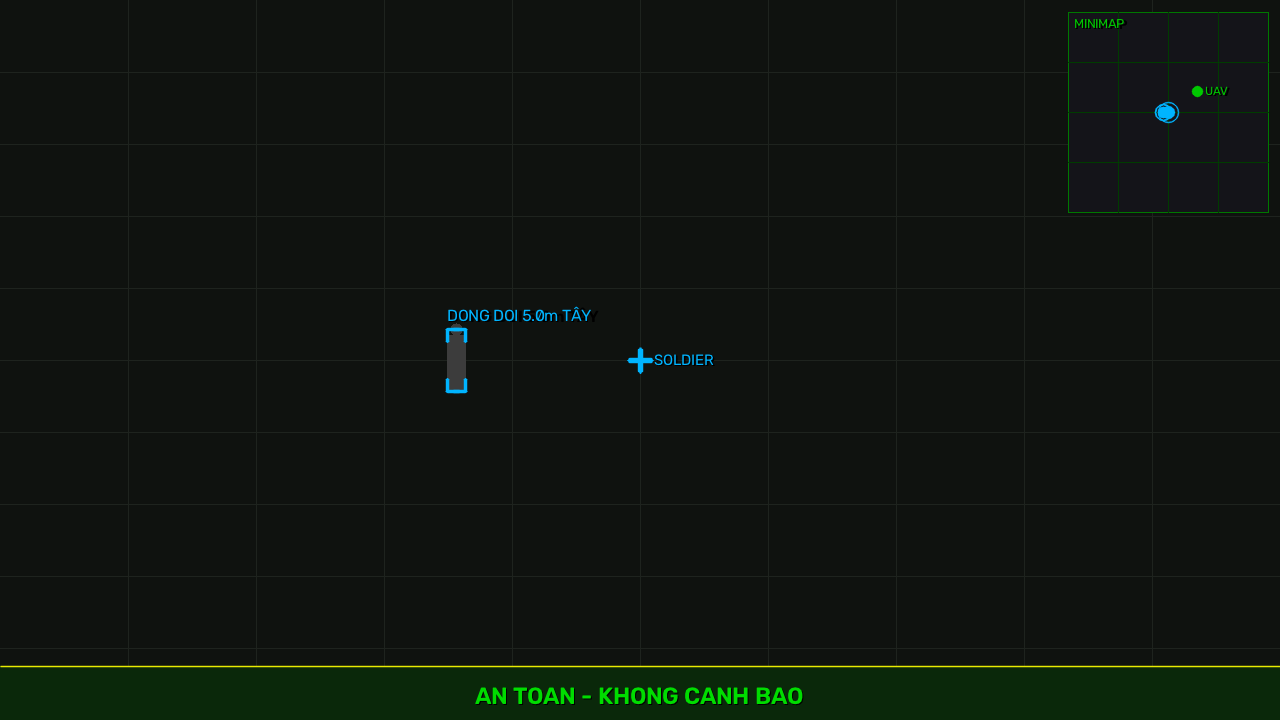
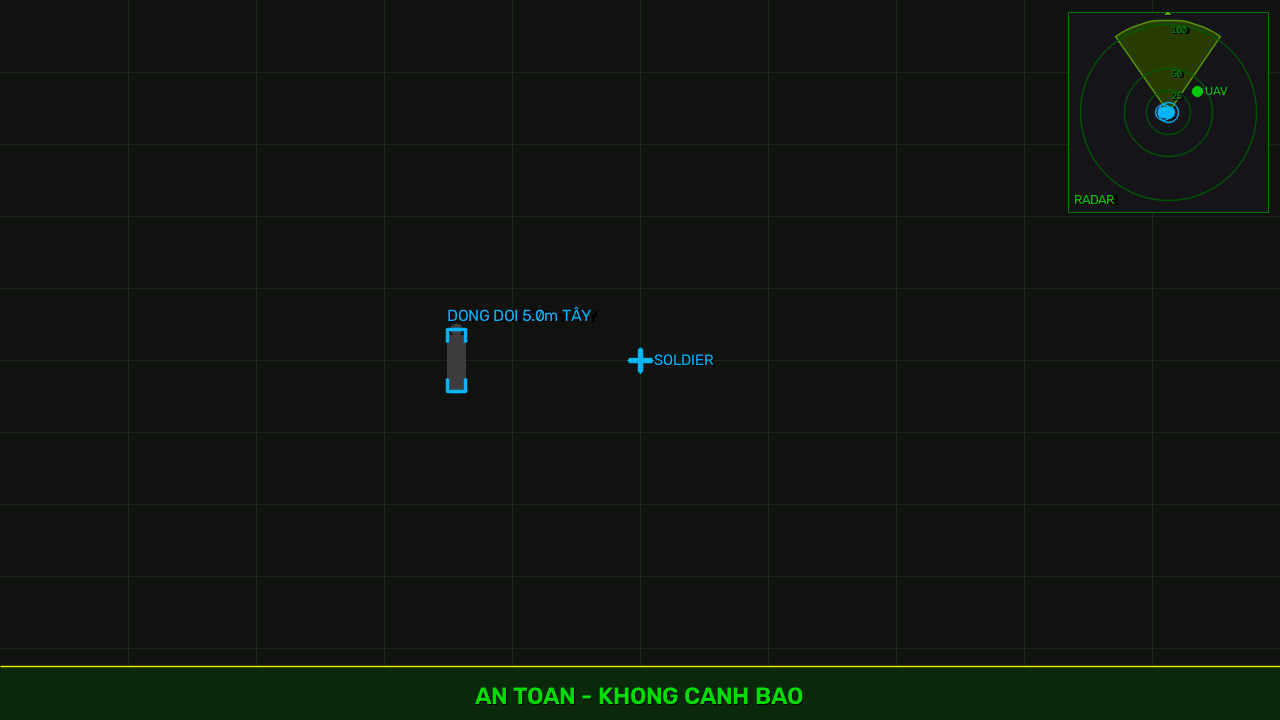
feat: Add TensorRT export script and enhance minimap radar functionality

diff --git a/tactical_hud_renderer.py b/tactical_hud_renderer.py
@@ -11,6 +11,8 @@ Thanh phan HUD:
   - Thanh cảnh báo SLM chớp nháy ở đáy màn hình
 """
 
+import math
+
 import cv2
 import numpy as np
 
@@ -21,11 +23,32 @@ GREEN = (0, 200, 0)      # UAV
 YELLOW = (0, 255, 255)   # chu canh bao
 DARK = (25, 20, 20)
 
-# Phuong vi (Phase 2) -> vector don vi toa do anh (x tang phai, y tang xuoi duoi)
-BEARING_VEC = {"Đông": (1, 0), "Bắc": (0, -1), "Tây": (-1, 0), "Nam": (0, 1)}
+# Phuong vi (chu) -> goc (do) de dat diem khi thieu angle_deg:
+# 0=Dong (phai), 90=Bac (len man hinh), 180=Tay (trai), 270=Nam (xuoi duoi)
+BEARING_ANGLE = {"Đông": 0, "Bắc": 90, "Tây": 180, "Nam": 270}
 
 MINIMAP_SIZE = 200
 WARN_RANGE_M = 100.0     # khoang cach toc do cua minimap: 100m = ra canh map
+CAM_FOV_DEG = 70.0       # goc FOV ngang mac dinh cua camera UAV (cho cone ve chiem)
+
+
+def _cone_points(cx, cy, radius_px, fov_deg, n=12):
+    """Dinh hinh quat FOV: tam + cac diem cung. Camera huong len (= 'Bac' = 90 do).
+    Quat chep xuong phia truoc, nua goc = fov_deg/2 so voi truc len man hinh."""
+    pts = [(cx, cy)]
+    a0 = math.radians(90.0 - fov_deg / 2.0)
+    a1 = math.radians(90.0 + fov_deg / 2.0)
+    for i in range(n + 1):
+        th = a0 + (a1 - a0) * i / n
+        pts.append((int(cx + radius_px * math.cos(th)),
+                    int(cy - radius_px * math.sin(th))))
+    return pts
+
+
+def _in_fov(angle_deg, fov_deg):
+    """Target co nam trong quat FOV (camera huong len = 90 do) khong."""
+    delta = (float(angle_deg) - 90.0 + 540.0) % 360.0 - 180.0  # lech [-180,180) so truc len
+    return abs(delta) <= fov_deg / 2.0
 
 
 def _text(frame, text, org, color, scale=0.55, thick=1, shadow=True):
@@ -53,36 +76,52 @@ def draw_soldier_marker(frame, cx, cy):
     _text(frame, "SOLDIER", (cx + 14, cy + 5), BLUE, 0.5, 1)
 
 
-def draw_minimap(frame, uav_frac, units, gps_units=()):
-    """Minimap goc phai tren. uav_frac: toa do (fx, fy) trong [0,1].
-    units: list (distance_m, bearing, side) tu box YOLO - 'enemy' dot do, 'friendly' dot xanh.
-    gps_units: list (dx_m, dy_m, side) - don doi co vi tri GPS thuc, ve theo toa do relative."""
+def draw_minimap(frame, uav_frac, units, gps_units=(), fov_deg=CAM_FOV_DEG):
+    """Minimap radar goc phai tren. Tam = lich, 100m = mep map.
+    uav_frac: toa do (fx, fy) trong [0,1] cua UAV.
+    units: list (distance_m, angle_deg, side) tu box YOLO — 'enemy' cham do,
+    'friendly' cham xanh; dat theo goc that 0-360 (0=Dong phai, 90=Bac len) + khoang cach.
+    gps_units: list (dx_m, dy_m, side) — dong doi GPS thuc, dat theo toa do relative.
+    fov_deg: goc FOV ngang camera UAV — ve quac vung phu + dam dau target ngoai tam."""
     s = MINIMAP_SIZE
     ox, oy = frame.shape[1] - s - 12, 12
-
-    cv2.rectangle(frame, (ox, oy), (ox + s, oy + s), DARK, -1)
-    cv2.rectangle(frame, (ox, oy), (ox + s, oy + s), (0, 120, 0), 1)
-    for i in range(1, 4):  # luoi 4x4
-        cv2.line(frame, (ox + i * s // 4, oy), (ox + i * s // 4, oy + s), (0, 60, 0), 1)
-        cv2.line(frame, (ox, oy + i * s // 4), (ox + s, oy + i * s // 4), (0, 60, 0), 1)
-    _text(frame, "MINIMAP", (ox + 6, oy + 16), (0, 200, 0), 0.45, 1)
-
     cx, cy = ox + s // 2, oy + s // 2
     px_per_m = (s / 2 - 12) / WARN_RANGE_M
 
-    # Dich (do) / dong doi (xanh): theo huong + khoang cach, giam trong khung map
-    for dist, bearing, side in units:
-        v = BEARING_VEC.get(bearing, (0, 0))
+    cv2.rectangle(frame, (ox, oy), (ox + s, oy + s), DARK, -1)
+    cv2.rectangle(frame, (ox, oy), (ox + s, oy + s), (0, 120, 0), 1)
+
+    # Quac FOV camera (huong len = phia truoc): vung camera dang nhìn (AC6)
+    cone = np.array(_cone_points(cx, cy, s / 2 - 8, fov_deg), dtype=np.int32)
+    cv2.fillPoly(frame, [cone], (0, 60, 40))
+    cv2.polylines(frame, [cone], True, (0, 160, 90), 1, cv2.LINE_AA)
+
+    # Ring khoang cach 25/50/100m
+    for ring_m in (25, 50, 100):
+        rr = int(ring_m * px_per_m)
+        cv2.circle(frame, (cx, cy), rr, (0, 90, 0), 1, cv2.LINE_AA)
+        _text(frame, str(ring_m), (cx + 3, cy - rr + 9), (0, 130, 0), 0.35, 1)
+
+    # Mui ten huong camera (len = phia truoc) + nhan
+    _text(frame, "^", (cx - 4, oy + 13), (0, 210, 130), 0.6, 2)
+    _text(frame, "RADAR", (ox + 6, oy + s - 8), (0, 200, 0), 0.45, 1)
+
+    # Dich (do) / dong doi (xanh): dat theo goc that + khoang cach, giam trong map
+    for dist, angle, side in units:
+        a = math.radians(float(angle))
         d = min(float(dist), WARN_RANGE_M)
-        ex = int(cx + v[0] * d * px_per_m)
-        ey = int(cy + v[1] * d * px_per_m)
+        ex = int(cx + math.cos(a) * d * px_per_m)
+        ey = int(cy - math.sin(a) * d * px_per_m)
         ex = max(ox + 4, min(ox + s - 4, ex))
         ey = max(oy + 4, min(oy + s - 4, ey))
         color = BLUE if side == "friendly" else RED
-        cv2.circle(frame, (ex, ey), 5, color, -1, cv2.LINE_AA)
-        cv2.circle(frame, (ex, ey), 8, color, 1, cv2.LINE_AA)
+        if _in_fov(angle, fov_deg):
+            cv2.circle(frame, (ex, ey), 5, color, -1, cv2.LINE_AA)
+            cv2.circle(frame, (ex, ey), 8, color, 1, cv2.LINE_AA)
+        else:  # ngoai tam nhan camera: ve rong (ghosted) de phan biet trong/ngoai tam
+            cv2.circle(frame, (ex, ey), 5, color, 1, cv2.LINE_AA)
 
-    # Don doi (xanh): vi tri GPS thuc quy ve quanh lich (dy > 0 = Bac = len len)
+    # Dong doi GPS that: toa do relative quanh lich (dy > 0 = Bac = len len)
     for dx, dy, side in gps_units:
         ex = int(cx + dx * px_per_m)
         ey = int(cy - dy * px_per_m)
@@ -147,7 +186,9 @@ def render_hud(frame, tactical_data, alert_text, now, uav_frac=(0.15, 0.18), gps
         draw_military_bbox(frame, x1, y1, x2, y2, color, label)
 
     draw_minimap(frame, uav_frac=uav_frac,
-                 units=[(t["distance_m"], t["bearing"], t.get("side", "enemy"))
+                 units=[(t["distance_m"],
+                         t.get("angle_deg", BEARING_ANGLE.get(t.get("bearing"), 90)),
+                         t.get("side", "enemy"))
                         for t in tactical_data],
                  gps_units=gps_units)
 

diff --git a/heretic_phase4_hud.py b/heretic_phase4_hud.py
@@ -43,7 +43,8 @@ def is_friendly(t):
 
 
 def calculate_tactical_telemetry(box, center_x, center_y, scale):
-    """Khoang cach (m) + huong tu tam (lich) den tam box - nhap tu Phase 2."""
+    """Khoang cach (m) + huong 4 phuong + goc that (do) tu tam khung den tam box.
+    goc: 0=Dong (phai), 90=Bac (len), 180=Tay (trai), 270=Nam (xuoi duoi) — de minimap dat diem."""
     import math
     x1, y1, x2, y2 = box.xyxy[0].tolist()
     dx = (x1 + x2) / 2 - center_x
@@ -58,7 +59,7 @@ def calculate_tactical_telemetry(box, center_x, center_y, scale):
         direction = "Tây"
     else:
         direction = "Nam"
-    return distance, direction
+    return distance, direction, angle_deg
 
 
 def build_tactical_data(results, center_x, center_y, scale, model_names, friendly_fn=None,
@@ -73,13 +74,14 @@ def build_tactical_data(results, center_x, center_y, scale, model_names, friendl
             class_name = model_names[int(box.cls[0])]
             x1, y1, x2, y2 = map(int, box.xyxy[0].tolist())
             box_scale = height_anchor_scale(class_name, y2 - y1, scale)
-            distance, direction = calculate_tactical_telemetry(box, center_x, center_y, box_scale)
+            distance, direction, angle_deg = calculate_tactical_telemetry(box, center_x, center_y, box_scale)
             track_id = int(box.id[0]) if box.id is not None else None
             t = {
                 "target": class_name,
                 "track_id": track_id,
                 "distance_m": distance,
                 "bearing": direction,
+                "angle_deg": angle_deg,
                 "box": (x1, y1, x2, y2),
             }
             if tracker is not None and track_id is not None and ts is not None:
@@ -164,7 +166,8 @@ def main():
     parser.add_argument("--slm", action="store_true",
                         help="Bat SLM Ollama cho cau canh bao (mac dinh: template, khong can Ollama)")
     parser.add_argument("--model", metavar="WEIGHT", default="yolo26n.pt",
-                        help="Duong dan weight YOLO (mac dinh: yolo26n.pt; duoc: weights/yolo26s-military-8c.pt)")
+                        help="Duong dan weight YOLO .pt hoac .engine (mac dinh yolo26n.pt; "
+                             "duoc: weights/yolo26s-military-8c-k2.pt hoac .engine tu export_trt_engine.py)")
     parser.add_argument("--video", metavar="PATH",
                         help="Test voi video file thay vi webcam (vd: assets/bus-360p.mp4, clip UAV thuc)")
     args = parser.parse_args()
@@ -198,7 +201,7 @@ def main():
         for distance in [95, 90, 85, 75, 65, 55, 45, 35, 25, 15, 9, 8, 7, 5, 3, 1]:
             frame, sim_box = make_sim_frame(distance, "Tây")
             t = {"target": "soldier", "distance_m": distance,
-                 "bearing": "Tây", "box": sim_box}
+                 "bearing": "Tây", "angle_deg": 180, "box": sim_box}
             t["side"] = "friendly" if friendly_fn and friendly_fn(t) else "enemy"
             tactical = [t]
             alert = evaluate_alert(enemies_payload(tactical), gater, use_slm=args.slm)

diff --git a/export_trt_engine.py b/export_trt_engine.py
@@ -1,0 +1,49 @@
+"""
+Heretic Version C - Export weight YOLO sang TensorRT (.engine) de tang FPS.
+
+QUAN TRONG: file .engine CHUNG KY theo kien truc GPU + phien ban TensorRT.
+Engine xay tren server (RTX 5000 Ada) KHONG chay duoc tren laptop (RTX 3050 Ampere).
+→ Chay script nay TRÊN MÁY SẼ CHẠY HUD (laptop), rói truyên --model .engine.
+
+Cai dat (chay 1 lan trên laptop):
+  .venv/bin/pip install tensorrt onnx onnxslim
+
+Chay:
+  .venv/bin/python export_trt_engine.py \
+      --weight weights/yolo26s-military-8c-k2.pt \
+      --out weights/yolo26s-military-8c-k2.engine \
+      --imgsz 640 --half
+
+Sau dó chay HUD (ByteTrack giu nguyen — tracking la post-inference, doc lap backend):
+  .venv/bin/python heretic_phase4_hud.py --model weights/yolo26s-military-8c-k2.engine --fp16
+"""
+
+import argparse
+
+from ultralytics import YOLO
+
+
+def main():
+    p = argparse.ArgumentParser(description="Export YOLO .pt -> TensorRT .engine (tang FPS)")
+    p.add_argument("--weight", required=True, help="Duong dan .pt goc")
+    p.add_argument("--out", required=True, help="Duong dan .engine xu")
+    p.add_argument("--imgsz", type=int, default=640, help="Kich thuoc input (mac dinh 640)")
+    p.add_argument("--half", action="store_true",
+                   help="FP16 — tang FPS, khuyen nghi")
+    p.add_argument("--device", type=int, default=0, help="GPU index (mac dinh 0)")
+    p.add_argument("--dynamic", action="store_true",
+                   help="Dynamic batch/size (build chet, lanh hon; mac dinh OFF)")
+    a = p.parse_args()
+
+    print(f"[INFO] Export {a.weight} -> {a.out} "
+          f"(imgsz={a.imgsz}, half={a.half}, device={a.device}, dynamic={a.dynamic})")
+    model = YOLO(a.weight)
+    model.export(format="engine", imgsz=a.imgsz, half=a.half,
+                 device=a.device, dynamic=a.dynamic, batch=1)
+    print(f"[XONG] {a.out}")
+    print("Chay HUD: .venv/bin/python heretic_phase4_hud.py --model "
+          f"{a.out} --fp16   (ByteTrack giu nguyen)")
+
+
+if __name__ == "__main__":
+    main()

diff --git a/plans/261116-1156-tensorrt-minimap-radar/plan.md b/plans/261116-1156-tensorrt-minimap-radar/plan.md
@@ -1,0 +1,54 @@
+---
+title: TensorRT FPS + Minimap radar upgrade
+status: completed
+priority: P1
+effort: medium
+branch: main
+tags: [tensorrt, minimap, radar, hud]
+created: 2026-11-16
+---
+
+# TensorRT + Minimap radar
+
+2 mục, đều đã chốt phương hướng với user:
+
+## Mục 1 — TensorRT (tăng FPS, giữ ByteTrack)
+- **Ràng buộc then chốt:** `.engine` ghim theo kiến trúc GPU + phiên bản TRT.
+  Engine build trên server (Ada 8.9) **KHÔNG chạy** trên laptop 3050 (Ampere 8.6).
+  → TensorRT là thao tác **phía laptop**. Server KHÔNG cài TRT (download nặng,
+  rủi ro lệch version, engine không port được).
+- `heretic_phase4_hud.py`: `--model` đã nhận `.engine` (ultralytics `YOLO("x.engine")`
+  load trong suốt). ByteTrack giữ nguyên (`tracker="bytetrack.yaml"` là post-inference,
+  độc lập backend). Chỉ cập nhật help text.
+- Tạo `export_trt_engine.py` (~40 dòng): `.pt` → `.engine` (half, imgsz, device).
+  Chạy TRÊN LAPTOP. Doc: `docs/laptop-deployment-guide.md` thêm section TensorRT.
+- **Không test engine trên server** (chưa có TRT). Validate: script parse OK,
+  đường dẫn không-engine (`--sim`) vẫn chạy.
+
+## Mục 2 — Minimap radar
+Minimap hiện đã theo hướng radar (tâm = lính, chấm địch theo hướng+khoảng cách).
+Nâng cấp thành radar hoàn chỉnh, **giữ bán kính 100m** (`WARN_RANGE_M`):
+1. **Range ring** 25/50/100m + nhãn.
+2. **Cone FOV camera** (góc ngang ~70°) — vùng camera đang nhìn (đạt AC6).
+3. **Góc thật 0-360°** thay 4 phương: `calculate_tactical_telemetry` trả thêm
+   `angle_deg`; đặt chấm bằng `ex=cx+r·cos(a)`, `ey=cy-r·sin(a)` (lên màn hình = "Bắc").
+4. **Indicator trong/ngoài tầm nhìn**: target ngoài cone FOV vẽ rỗng (ghosted).
+5. Mũi tên hướng camera (lên = phía trước).
+
+Giữ chuỗi `bearing` 4 phương cho text cảnh báo + nhãn bbox (dễ đọc). Chỉ map dùng góc thật.
+
+## Todo
+- [x] `tactical_hud_renderer.py`: `math`, `CAM_FOV_DEG`, `_cone_points`, `_in_fov`,
+      thay `BEARING_VEC`→`BEARING_ANGLE`, viết lại `draw_minimap`, update `render_hud`.
+- [x] `heretic_phase4_hud.py`: `calculate_tactical_telemetry` trả 3 giá trị,
+      `build_tactical_data` thêm `angle_deg`, sim loop thêm `angle_deg`, help `--model`.
+- [x] `export_trt_engine.py` mới.
+- [x] `docs/laptop-deployment-guide.md`: section TensorRT.
+- [x] Test: `py_compile` 3 file + `--sim` render radar (xác nhận radar: cone+rings+ghosting).
+- [x] Test: `test_telemetry_chain.py` + `test_tracking.py` → TOÀN BỘ PASS (không regression).
+- [x] Code-review (subagent) — CLEAN, production-ready, 0 blocking issues.
+
+## Success
+- `--sim` ra PNG radar: ring + cone FOV + chấm góc thật + UAV + lính, không lỗi.
+- `test_telemetry_chain.py` / `test_tracking.py` không regression (đường cảnh báo ổn).
+- `export_trt_engine.py --help` chạy OK (engine build chạy trên laptop, không test server).
